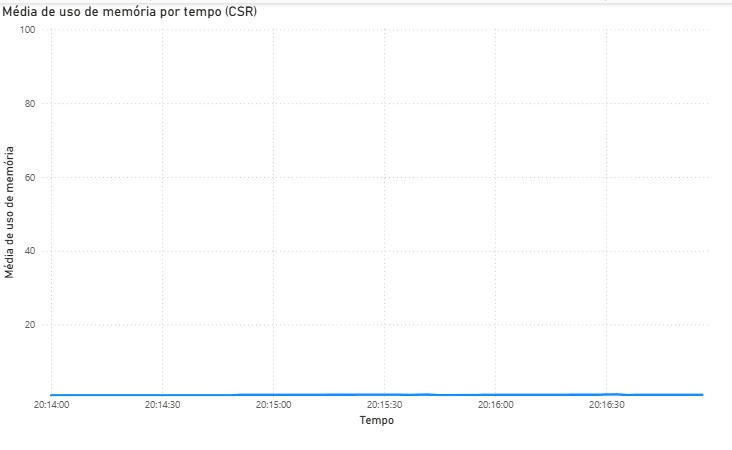
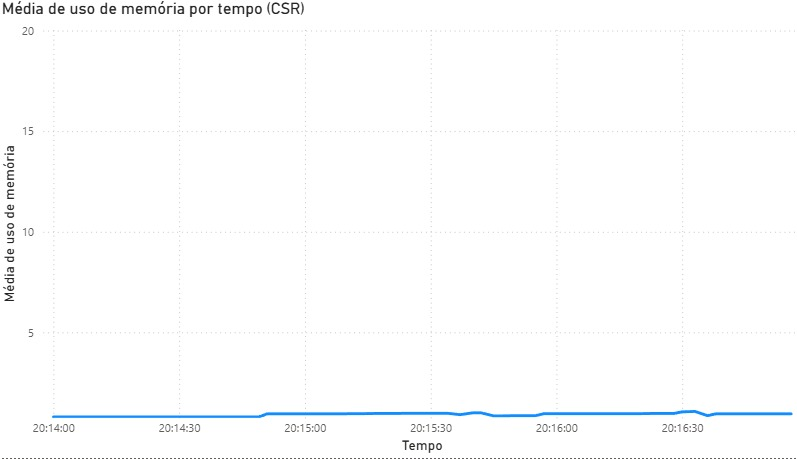
trocar imagem e adicionar subsection sobre power bi

diff --git a/textual/t7-resultados.tex b/textual/t7-resultados.tex
@@ -13,6 +13,10 @@ Os testes cobriram as duas variantes da WallTech (\acrshort{ssr}/\acrshort{mpa} 
   \item \textbf{Recursos do servidor}: CPU/memória/PIDs via \texttt{docker stats}, como contexto de custo de execução.
 \end{itemize}
 
+\subsubsection*{Análise e Visualização dos Dados}
+Os dados coletados, incluindo as métricas de \textit{Web Vitals} e as medições de recursos do servidor, foram exportados e analisados com o auxílio do Power BI. A ferramenta foi utilizada para gerar gráficos e visualizações interativas que facilitam a interpretação dos resultados e a comparação entre os diferentes cenários (\acrshort{ssr} e \acrshort{csr}). O uso do Power BI permitiu a criação de dashboards dinâmicos que ilustram claramente as tendências das métricas ao longo das execuções e facilitam a análise de variações nas diferentes páginas testadas.
+
+
 \subsubsection*{Metas de referência}
 Adotaram-se os seguintes alvos para interpretação:
 \begin{itemize}
